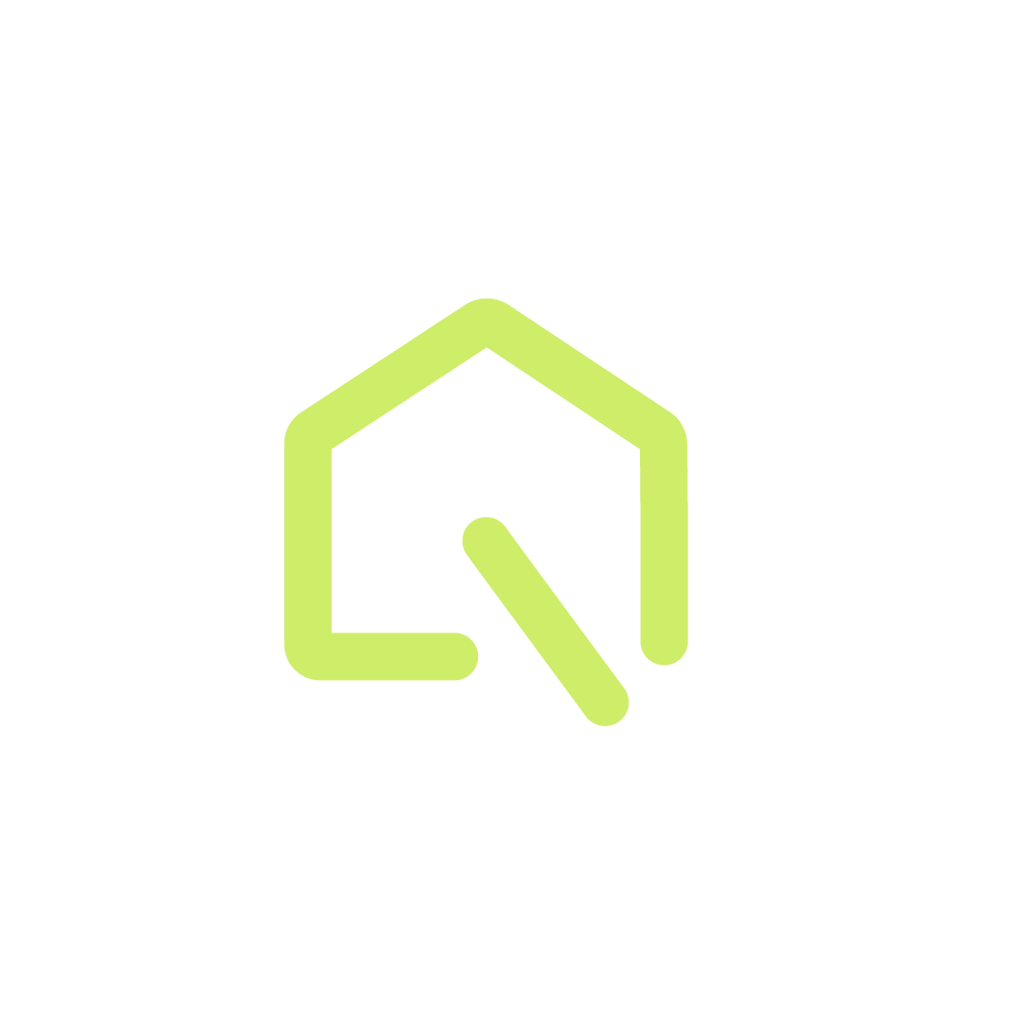
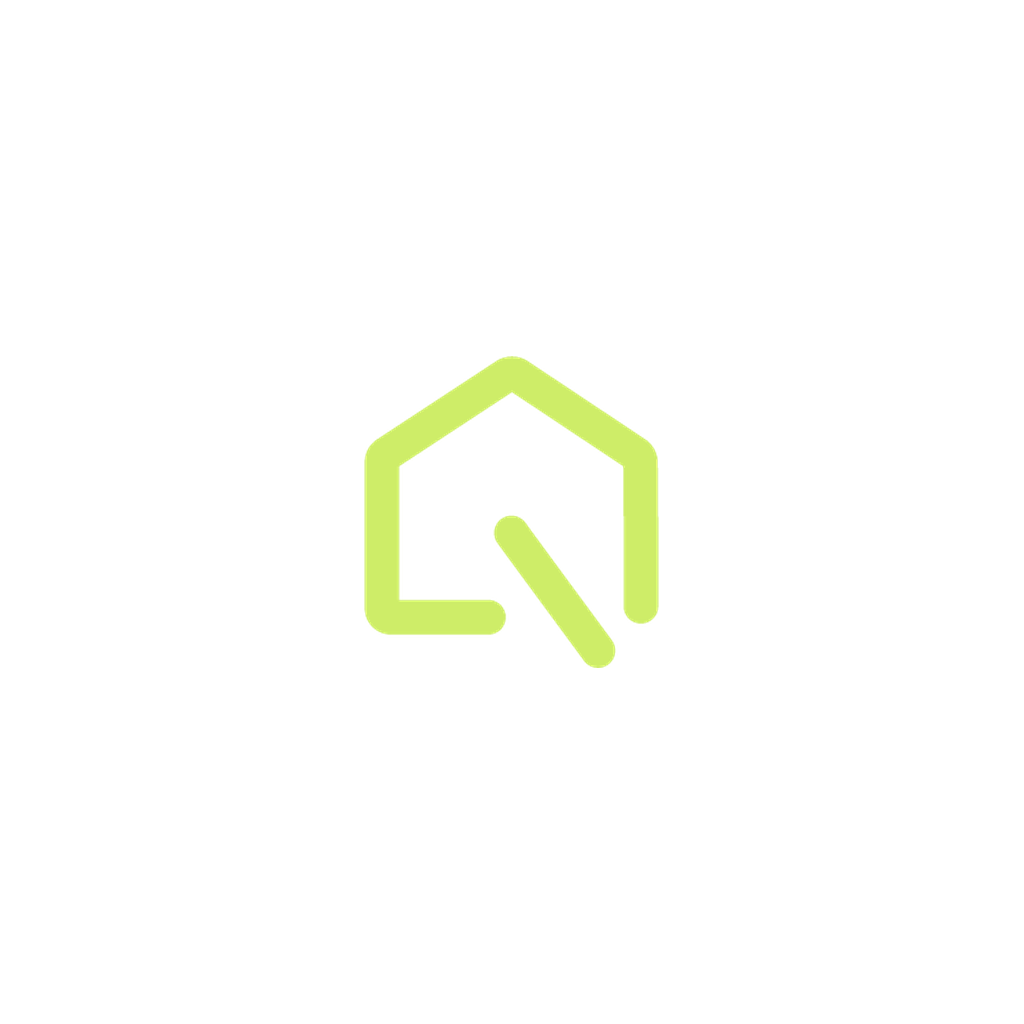
marca: íconos de Quadra centrados desde los archivos del diseñador
- icono 1024 y adaptativo de Android con el logo en la zona segura
- splash con logo + palabra Quadra
- favicon y apple-touch-icon de la landing
- mascota Quadri en assets/brand

Changed region(s): [[0.25, 0.2812, 0.6875, 0.7188]]

diff --git a/app.config.ts b/app.config.ts
@@ -41,7 +41,7 @@ const config: ExpoConfig = {
       'expo-splash-screen',
       {
         image: './assets/splash-icon.png',
-        imageWidth: 160,
+        imageWidth: 240, // logo + palabra "Quadra"
         backgroundColor: '#123023', // verde oscuro de la marca Quadra
       },
     ],
